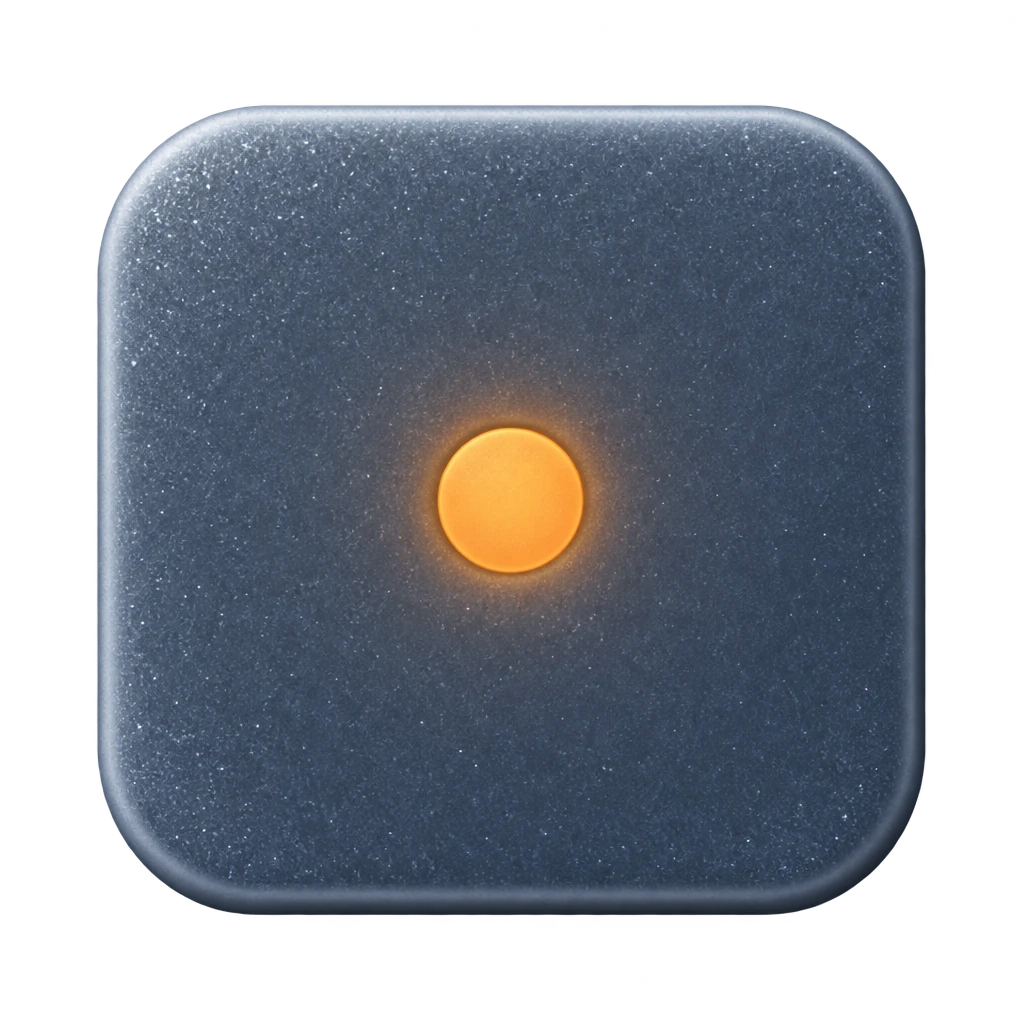
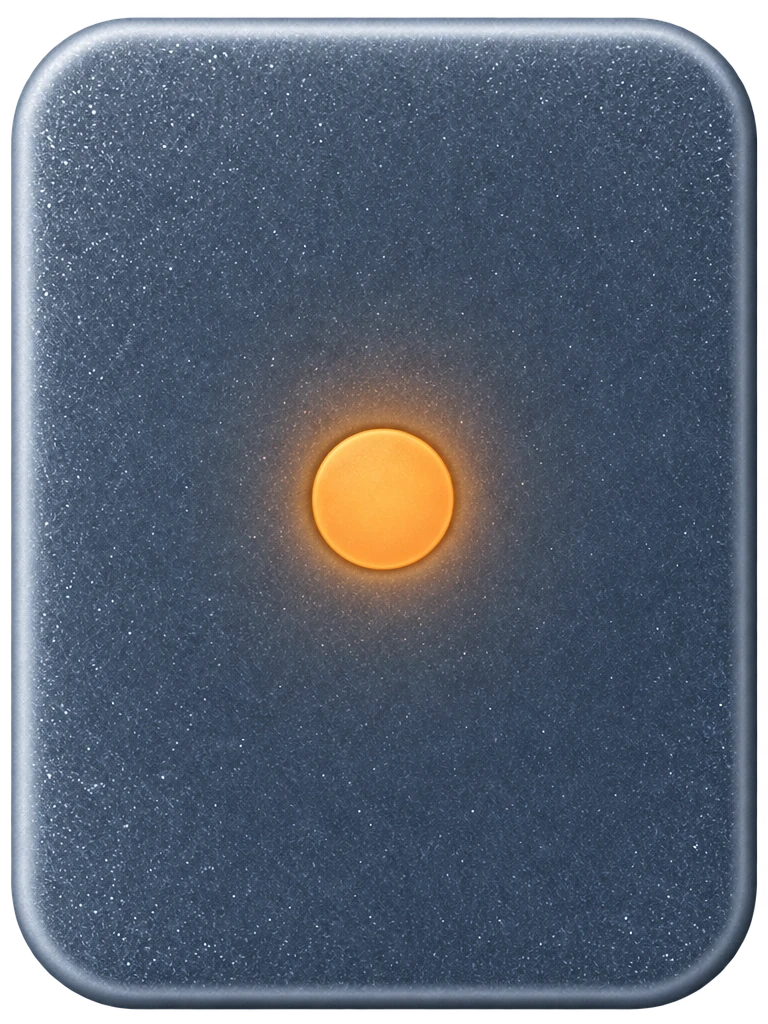
Art: portrait 3:4 card backs (winter and autumn)
Both stack card backs were redrawn as portrait cards from their square originals
(same face, rim, corner radius and amber dot) and ship at 384x512 (27 KB and
37 KB). The board's cover fit no longer cuts their rounded corners off.
chrome.py back / tables.py share one cut (cut_back). The table item icon's
pile keeps the back's aspect. The prompt is in prompts.txt.

diff --git a/tools/art/chrome.py b/tools/art/chrome.py
@@ -1,11 +1,12 @@
 """Table and chrome exports: generated sources -> shipped files in public/art/.
 
     python tools/art/chrome.py <source-dir>
+    python tools/art/chrome.py back <stack-back.png>    the card back alone
 
 Sources are gemforge generations made from design/concepts/game-l.png (prompts in
 tools/art/prompts.txt); full-size copies are kept in tools/art/masters/chrome/.
   table.png       -> public/art/table.webp        1080x1920, the empty winter-dusk table
-  stack-back.png  -> public/art/stack-back.webp   256x256, one stack card back (alpha)
+  stack-back.png  -> public/art/stack-back.webp   384x512, one portrait 3:4 card back (alpha)
 """
 import sys
 from pathlib import Path
@@ -28,14 +29,35 @@ def main(src):
     table.resize((1080, 1920), Image.LANCZOS).save(out, "WEBP", quality=72, method=6)
     print(out.relative_to(ROOT), out.stat().st_size // 1024, "KB")
 
-    back = Image.open(src / "stack-back.png").convert("RGBA")
+    stack_back(src / "stack-back.png")
+
+
+BACK = (384, 512)  # a card back, w x h: cards are portrait 3:4 (creator, 2026-10-24)
+
+
+def cut_back(back):
+    """The card itself (alpha > 200), at exactly the card aspect, BACK px."""
+    x0, y0, x1, y1 = back.getchannel("A").point(lambda v: 255 if v > 200 else 0).getbbox()
+    w, h = x1 - x0, y1 - y0
+    if w * BACK[1] > h * BACK[0]:  # trim the long side evenly to 3:4
+        d = (w - round(h * BACK[0] / BACK[1])) // 2
+        x0, x1 = x0 + d, x1 - d
+    else:
+        d = (h - round(w * BACK[1] / BACK[0])) // 2
+        y0, y1 = y0 + d, y1 - d
+    return back.crop((x0, y0, x1, y1)).resize(BACK, Image.LANCZOS)
+
+
+def stack_back(png):
+    back = Image.open(png).convert("RGBA")
     back.save(MASTERS / "stack-back.webp", "WEBP", quality=90, method=6, exact=False)
-    box = back.getchannel("A").point(lambda v: 255 if v > 200 else 0).getbbox()
-    back = back.crop(box).resize((256, 256), Image.LANCZOS)
     out = ART / "stack-back.webp"
-    back.save(out, "WEBP", quality=85, method=6)
-    print(out.relative_to(ROOT), out.stat().st_size // 1024, "KB", "cropped from", box)
+    cut_back(back).save(out, "WEBP", quality=72, alpha_quality=75, method=6)
+    print(out.relative_to(ROOT), out.stat().st_size // 1024, "KB")
 
 
 if __name__ == "__main__":
-    main(sys.argv[1])
+    if sys.argv[1:2] == ["back"]:
+        stack_back(sys.argv[2])
+    else:
+        main(sys.argv[1])

diff --git a/tools/art/tables.py b/tools/art/tables.py
@@ -9,7 +9,7 @@ darker middle where the cards sit) and keeps the same chrome: frosted frames and
 buttons are drawn by the game and do not change per table. What changes per table:
 
   <name>-table.webp       the background, 1080x1920 (cover, centre top), like public/art/table.webp
-  <name>-stack-back.webp  the card back of the stacks, 256x256 with alpha
+  <name>-stack-back.webp  the card back of the stacks, 384x512 (portrait 3:4) with alpha
   <name>-particles.png    a strip of square frames drifting at the edges (snow, leaves...)
   <name>-thumb.webp       a 320x400 preview for the table picker (the top of the table)
 Every file name carries the table's name: the platform refuses a build in which two
@@ -108,9 +108,10 @@ def particles(master, out):
 
 
 def stack_back(master, out):
-    im = Image.open(master).convert("RGBA")
-    im = im.crop(im.getchannel("A").point(lambda v: 255 if v > 200 else 0).getbbox())
-    im.resize((256, 256), Image.LANCZOS).save(out, "WEBP", quality=85, alpha_quality=90, method=6)
+    sys.dont_write_bytecode = True
+    sys.path.insert(0, str(Path(__file__).resolve().parent))
+    from chrome import cut_back  # noqa: E402  (one cut for every table's back)
+    cut_back(Image.open(master).convert("RGBA")).save(out, "WEBP", quality=72, alpha_quality=75, method=6)
 
 
 def build():
@@ -153,7 +154,7 @@ def icon(name, pid):
     table = Image.open(OUT / name / f"{name}-table.webp").convert("RGB")
     w = table.width
     im = table.crop((0, 0, w, w)).resize((1024, 1024), Image.LANCZOS).convert("RGBA")
-    back = Image.open(OUT / name / f"{name}-stack-back.webp").convert("RGBA").resize((420, 420), Image.LANCZOS)
+    back = Image.open(OUT / name / f"{name}-stack-back.webp").convert("RGBA").resize((315, 420), Image.LANCZOS)
     for k in range(3, -1, -1):
         b = back.copy()
         if k:

diff --git a/tools/art/chrome-spec.md b/tools/art/chrome-spec.md
@@ -9,7 +9,7 @@ from exactly these numbers: `python tools/art/mockup.py <out.png>`.
 | file | what | size |
 | --- | --- | --- |
 | `table.webp` | the empty winter-dusk table, portrait 1080x1920 (9:16): lanterns in the top corners, snowy pine and holly on the edges, a calm dark middle. Nothing else painted in. | ~92 KB |
-| `stack-back.webp` | one stack card back, straight on, 256x256 with alpha: frosted deep blue-grey, one amber dot. | ~14 KB |
+| `stack-back.webp` | one stack card back, straight on, portrait 384x512 (3:4 cards) with alpha: frosted deep blue-grey, one amber dot. | ~27 KB |
 | `snow.png` | four 32x32 white flakes in a 128x32 strip: soft small, soft large/faint, crisp, six-armed crystal. | ~2 KB |
 | `wordmark.webp`, `wordmark-1400.webp` | the title "Picture Mend" in two lines, plump frosted letters on a blue-grey lip, amber dot on the i; alpha, cropped to the letters, 2.07:1. 840x405 (~48 KB) for phones, 1400x675 (~74 KB) for big tablets: use both as a srcset; the big one stays sharp up to ~700 CSS px wide on a 2x screen. | ~48 / 74 KB |
 | `ui/icon-*.svg` | slate glyphs, 48x48 viewBox: `gear`, `back`, `undo`, `hint`, `shuffle`, `restart`, `play`, `next`, `home`, `chevron`, `photos`, `route`, `lock`, `check`, `daily`. | <1 KB each |
